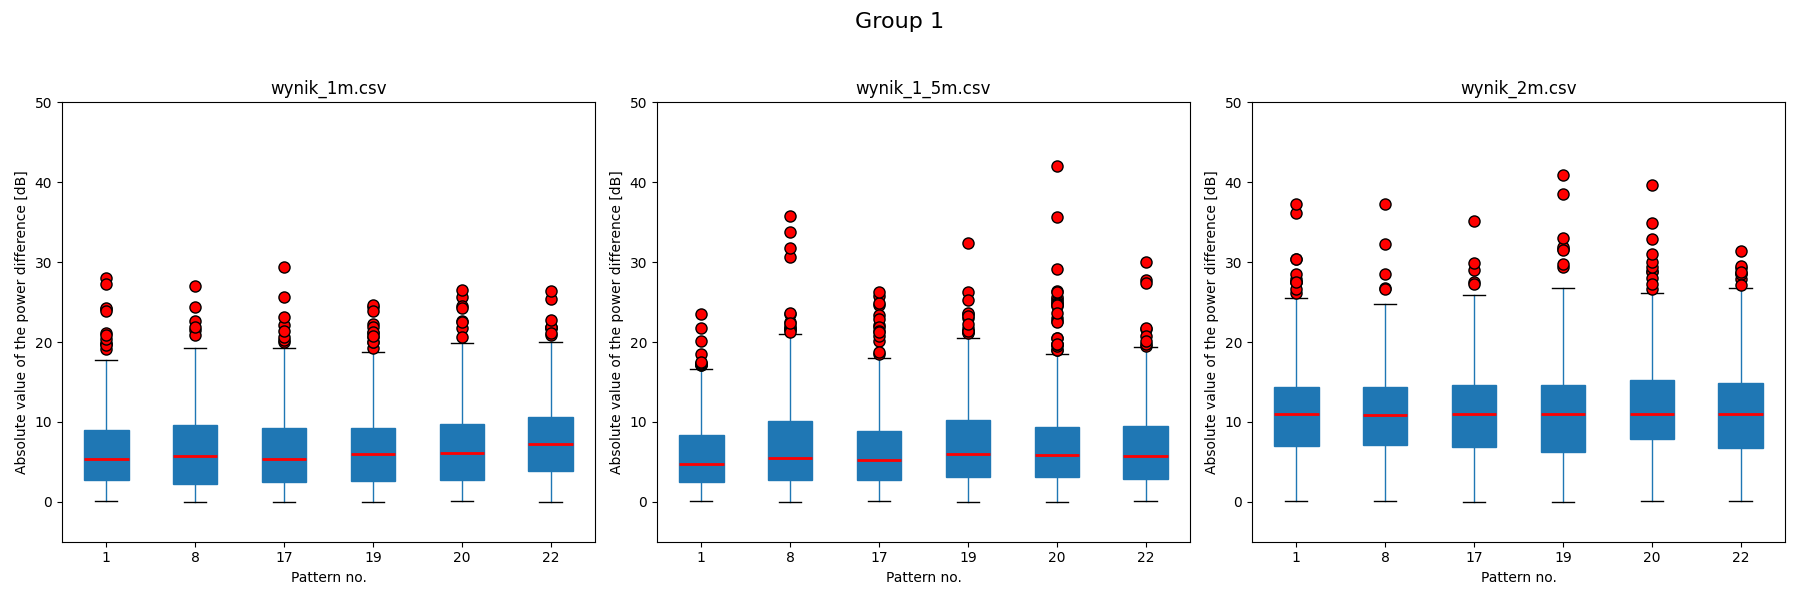
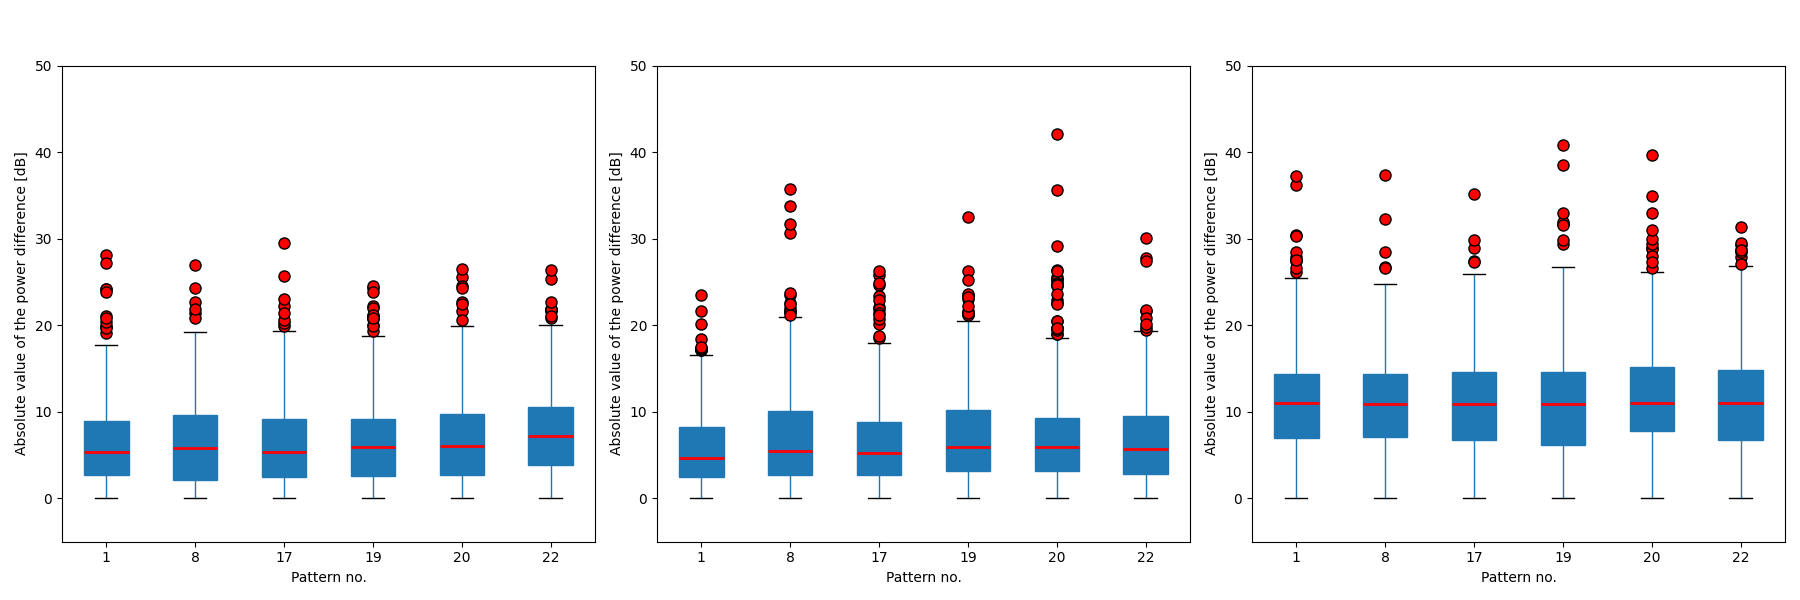
wykresy tytuły

diff --git a/Box_Plot/box_plot_merge.py b/Box_Plot/box_plot_merge.py
@@ -56,10 +56,10 @@ def tworz_subploty_wykresow(plik_csv_lista, wybrane_patterny, folder_wynikowy):
             ax.set_ylim(-5, 50)
 
             # Dostosowanie tytułów i etykiet
-            ax.set_title(os.path.basename(plik_csv))
+            ax.set_title("")
             ax.set_xlabel("Pattern no.")
             ax.set_ylabel("Absolute value of the power difference [dB]")
-            plt.suptitle(f"Group {indeks + 1}", fontsize=16)
+            plt.suptitle(f"", fontsize=16)
 
         # Przygotowanie ścieżki zapisu
         nazwa_wykresu = f"group_{indeks + 1}.png"
